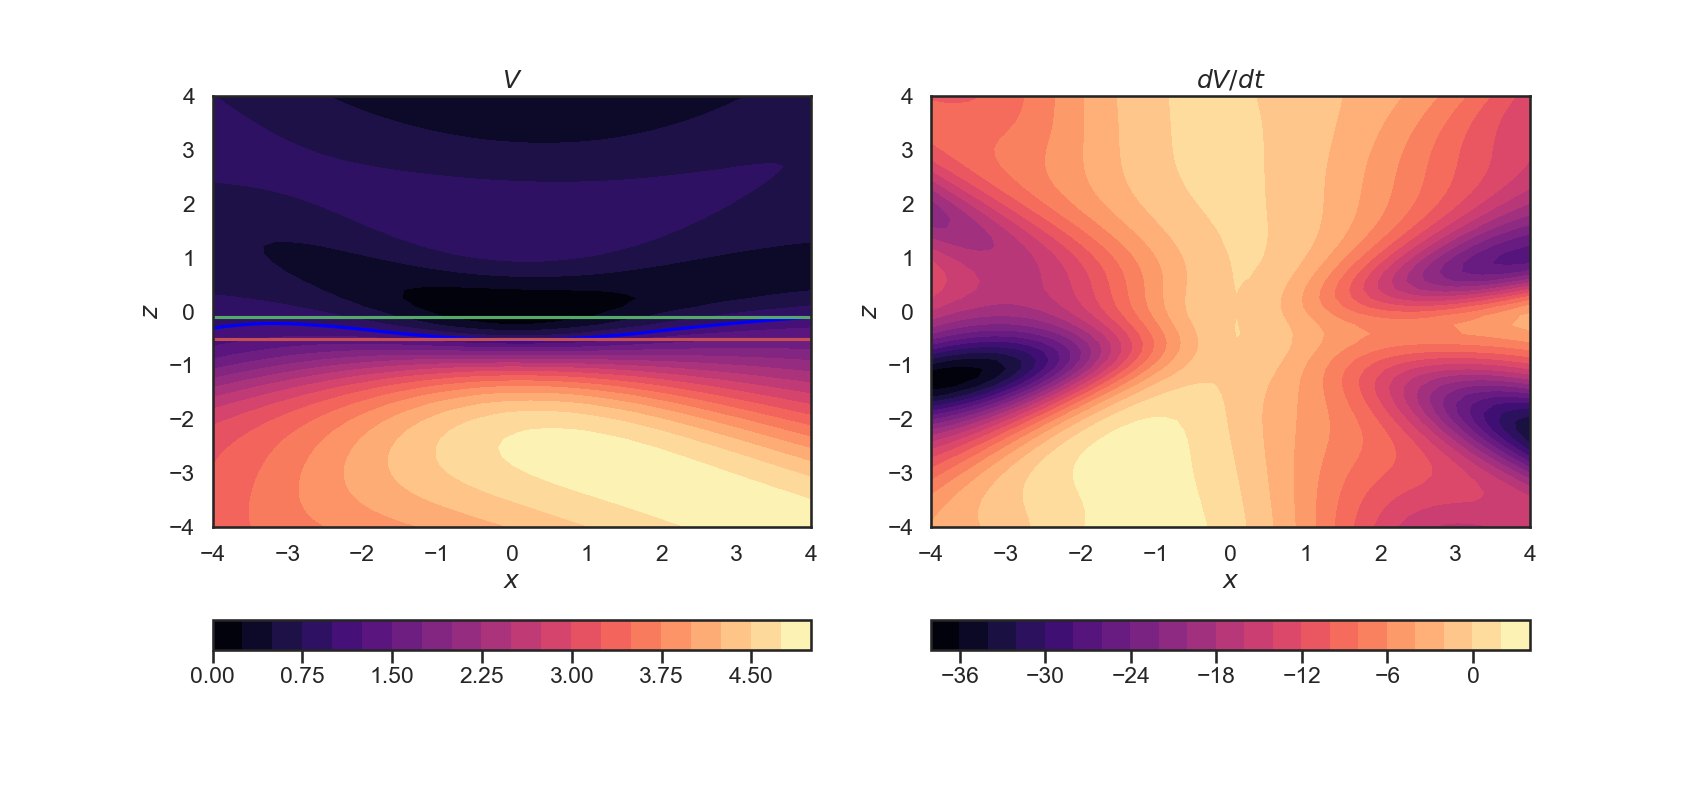
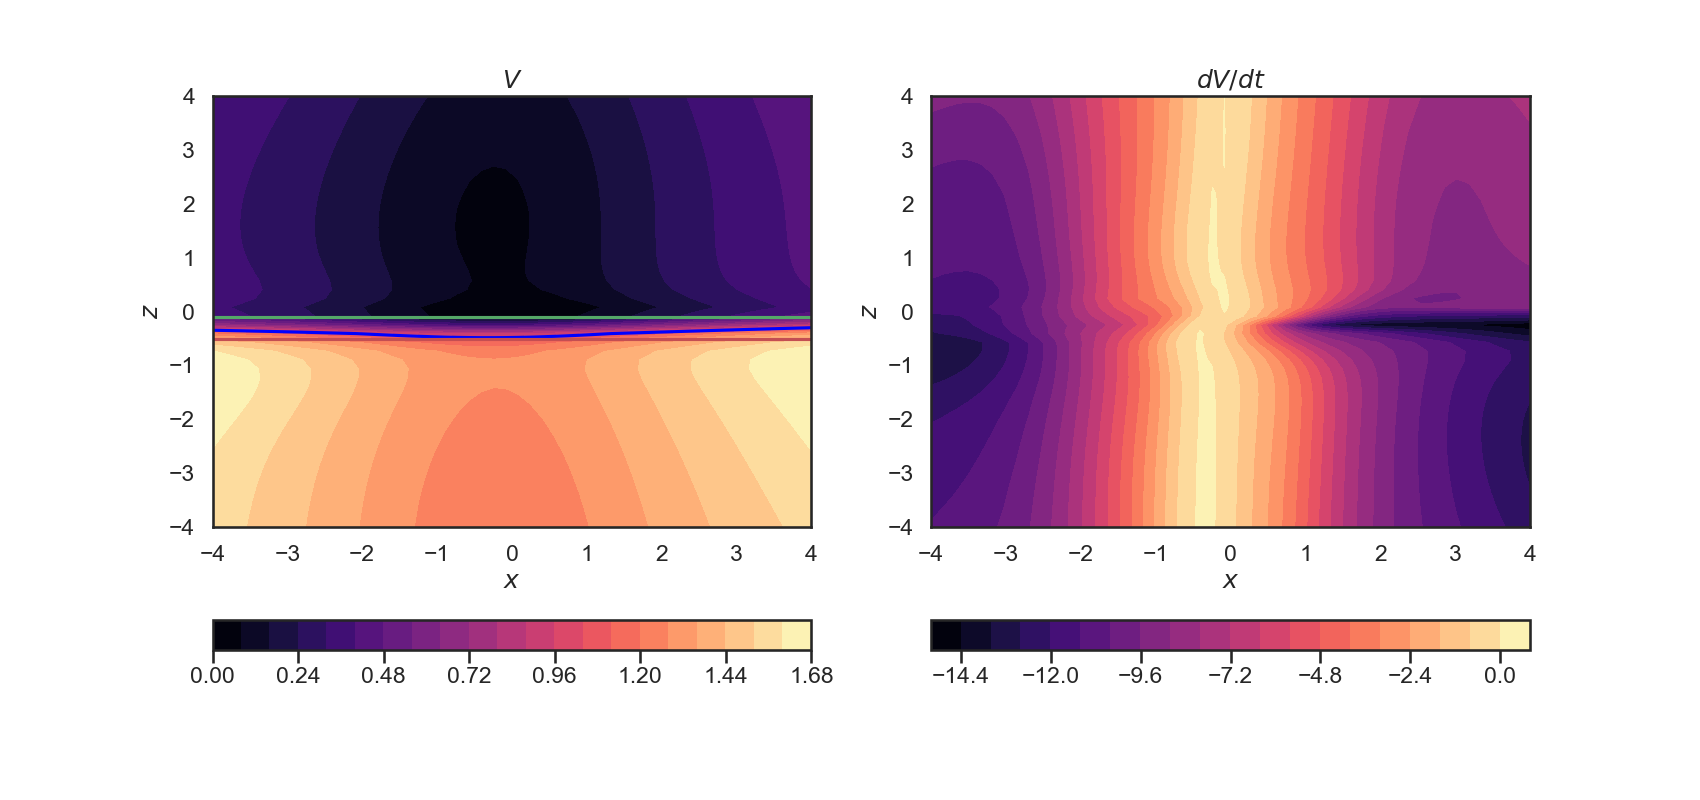
Fix bug in loss

diff --git a/neural_clf/plotting/pvtol_clf_simulation.py b/neural_clf/plotting/pvtol_clf_simulation.py
@@ -141,8 +141,8 @@ with torch.no_grad():
     ax3 = axs[1, 1]
     ax3.plot([], c=sns.color_palette("pastel")[0], label="LQR V")
     ax3.plot([], c=sns.color_palette("pastel")[1], label="CLF V")
-    # ax3.plot(t, V_sim_lqr[:, :, 0],
-    #          c=sns.color_palette("pastel")[0])
+    ax3.plot(t, V_sim_lqr[:, :, 0],
+             c=sns.color_palette("pastel")[0])
     ax3.plot(t[:t_final_rclfqp], V_sim_rclfqp[:t_final_rclfqp, :, 0],
              c=sns.color_palette("pastel")[1])
     ax3.plot(t, t * 0.0, c="k")

diff --git a/neural_clf/controllers/clf_qp_net.py b/neural_clf/controllers/clf_qp_net.py
@@ -282,7 +282,8 @@ def lyapunov_loss(x,
         xdot = f + torch.bmm(g, u.unsqueeze(-1)).squeeze()
         x_next = x + timestep * xdot
         V_next, _ = net.compute_lyapunov(x_next)
-        lyap_descent_term += F.relu(V_next.squeeze() - (1 + clf_lambda * timestep) * V)
+        change_in_lyap = V_next.squeeze() - (1 + clf_lambda * timestep) * V
+        lyap_descent_term += F.relu(-change_in_lyap)
     loss += lyap_descent_term.mean()
 
     #   6.) A term to discourage relaxations of the CLF condition
